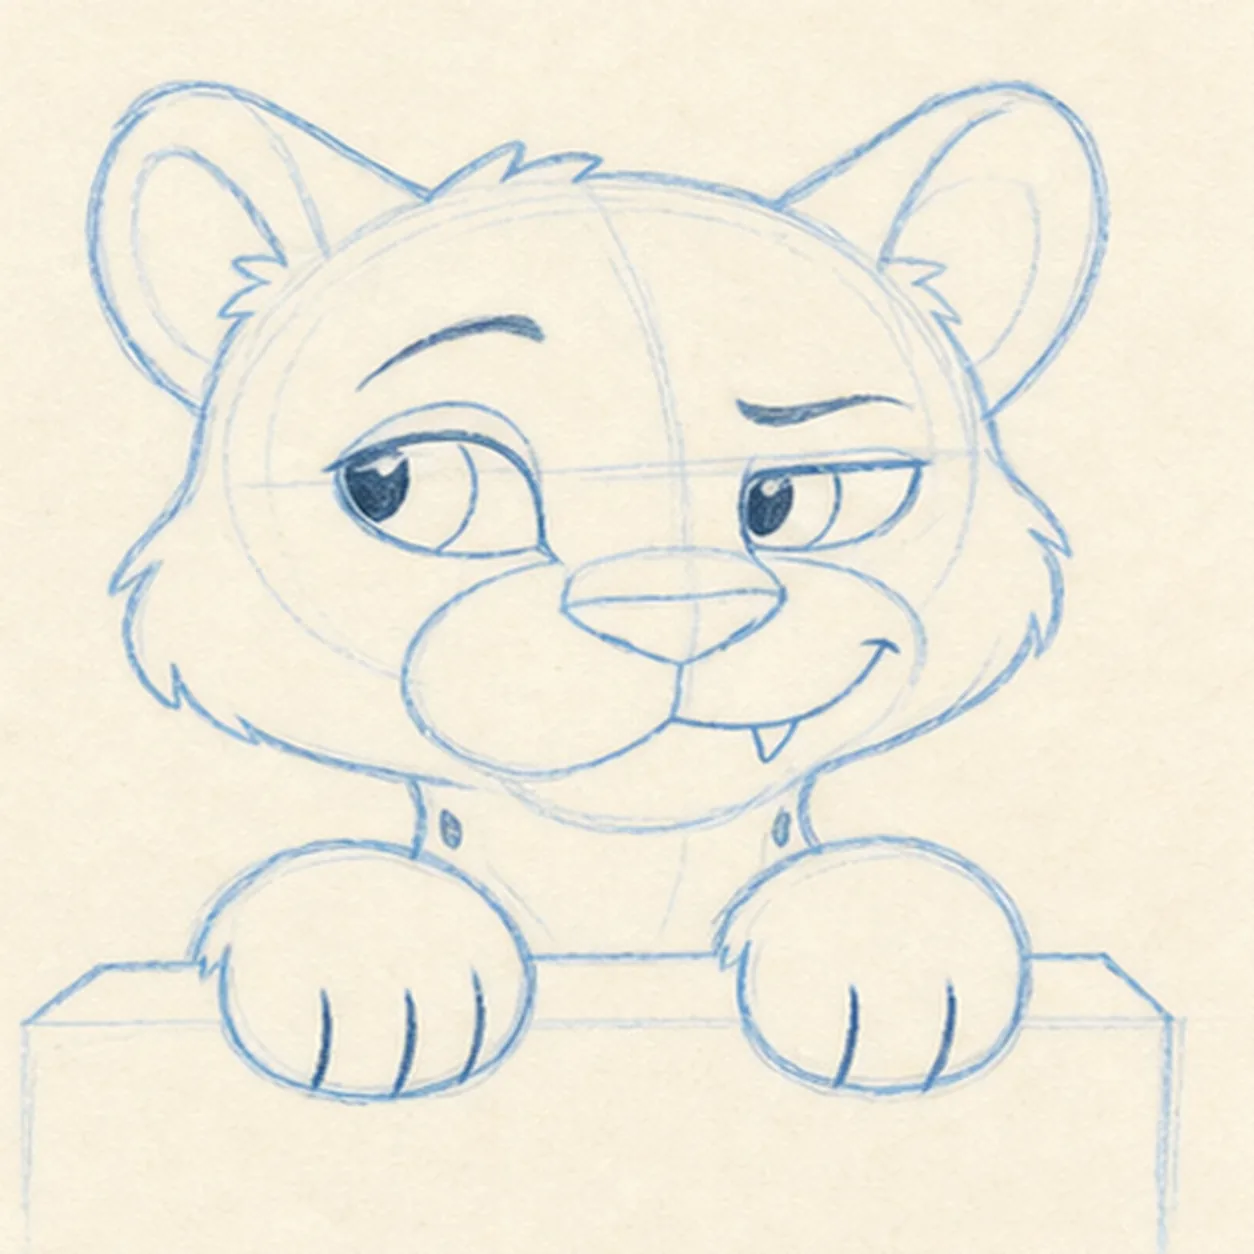
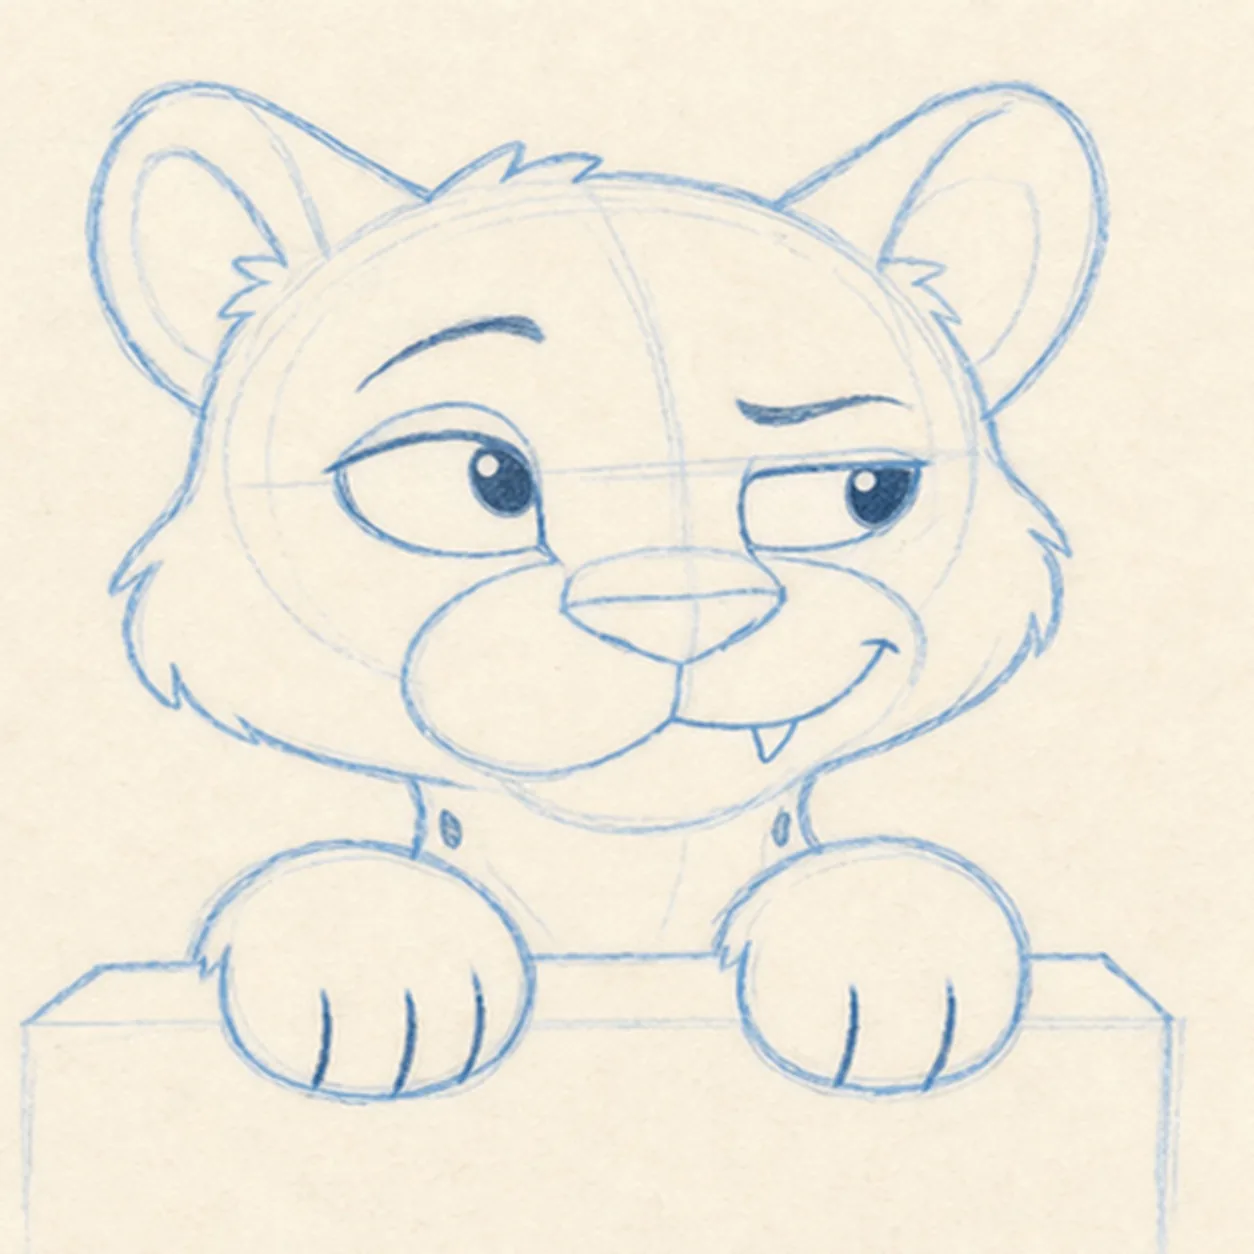
Fix cheetah tutorial eye direction

Changed region(s): [[0.2488, 0.3421, 0.4354, 0.4354], [0.5909, 0.3732, 0.7464, 0.4354]]

diff --git a/tutorials/cheetah-print-pattern.html b/tutorials/cheetah-print-pattern.html
@@ -108,7 +108,7 @@
         {
           "@type": "HowToStep",
           "name": "Aim the cheeky side-eye",
-          "text": "Turn both pupils sideways, raise one curved brow, shape the crooked smirk, add exactly three short toe marks to each paw, and place two small solid-spot anchors on the visible neck."
+          "text": "Turn both pupils toward the right side of the page, raise one curved brow, shape the crooked smirk, add exactly three short toe marks to each paw, and place two small solid-spot anchors on the visible neck."
         },
         {
           "@type": "HowToStep",
@@ -257,8 +257,8 @@
             </div>
             <div class="step-copy">
               <h3>Aim the cheeky side-eye</h3>
-              <p>Turn both pupils sideways, raise one curved brow, shape the crooked smirk, add exactly three short toe marks to each paw, and place two small solid-spot anchors on the visible neck.</p>
-              <p class="artist-tip"><strong>Marker tip:</strong> Aim both pupils toward the same side before darkening them, then lift only one brow. Count three toe marks on the left paw, three on the right, and two neck anchors before moving to the full marking map.</p>
+              <p>Turn both pupils toward the right side of the page, raise one curved brow, shape the crooked smirk, add exactly three short toe marks to each paw, and place two small solid-spot anchors on the visible neck.</p>
+              <p class="artist-tip"><strong>Marker tip:</strong> Push both pupils toward the page's right edge before darkening them, then lift only one brow. Count three toe marks on the left paw, three on the right, and two neck anchors before moving to the full marking map.</p>
             </div>
           </li>
           <li class="step-card">

diff --git a/HUMANS.md b/HUMANS.md
@@ -58,6 +58,24 @@
 - Local Cove URL: `https://doodlea.localhost/`
 
 ## Return Notes
+- 2026-07-27 owner caught a gaze-continuity error in the revised
+  `cheetah-print-pattern` cub: step 5 introduced both pupils toward the image's
+  left, while steps 6, 7, and the finish looked toward the image's right. A
+  targeted built-in raster edit changed only step 5's pupils and highlights;
+  the eye shapes, brows, face, pose, paws, construction axes, marker stage, and
+  approved finished image remain unchanged. The mismatched sheet and step are
+  preserved under `drafts/cheetah-print-pattern/eye-direction-shift-v2/`, and
+  the repaired panel plus review crops live under
+  `drafts/cheetah-print-pattern/eye-consistency-repair-v3/`.
+- The process plan and public step copy now explicitly require both pupils to
+  aim toward the right side of the page from step 5 onward. Full readiness
+  passed, including seven frame deltas, 981-image asset accounting, 165
+  internal URLs, JSON-LD, lab privacy, derivatives, and `git diff --check`.
+  Direct Cove QA at 1440x1000 and 390x844 visibly confirmed the stable gaze,
+  all 13 tutorial images loaded, and there were no broken images, console
+  errors, horizontal overflow, or public lab links. The unchanged finished
+  image remains rated 9.7/10, and the temporary two-tutorial-per-site backfill
+  cadence remains active.
 - 2026-07-27 owner selected the richer option 2 correction for the July 26
   `cheetah-print-pattern` lesson: it remains Day 073 / July 26, but now teaches
   a cheeky cartoon cheetah cub peeking over a ledge in eight cumulative marker
